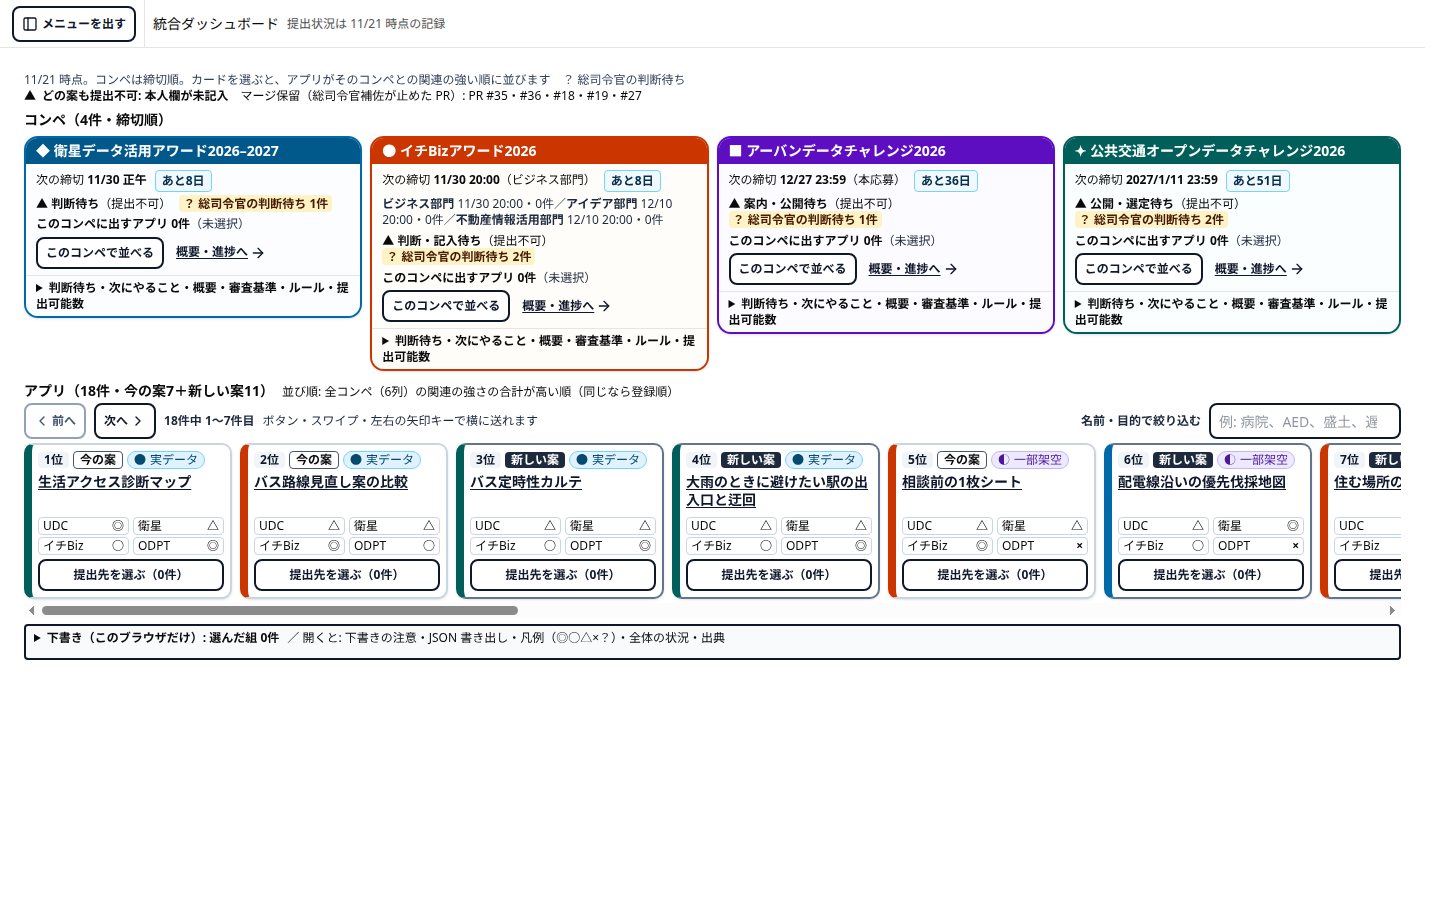
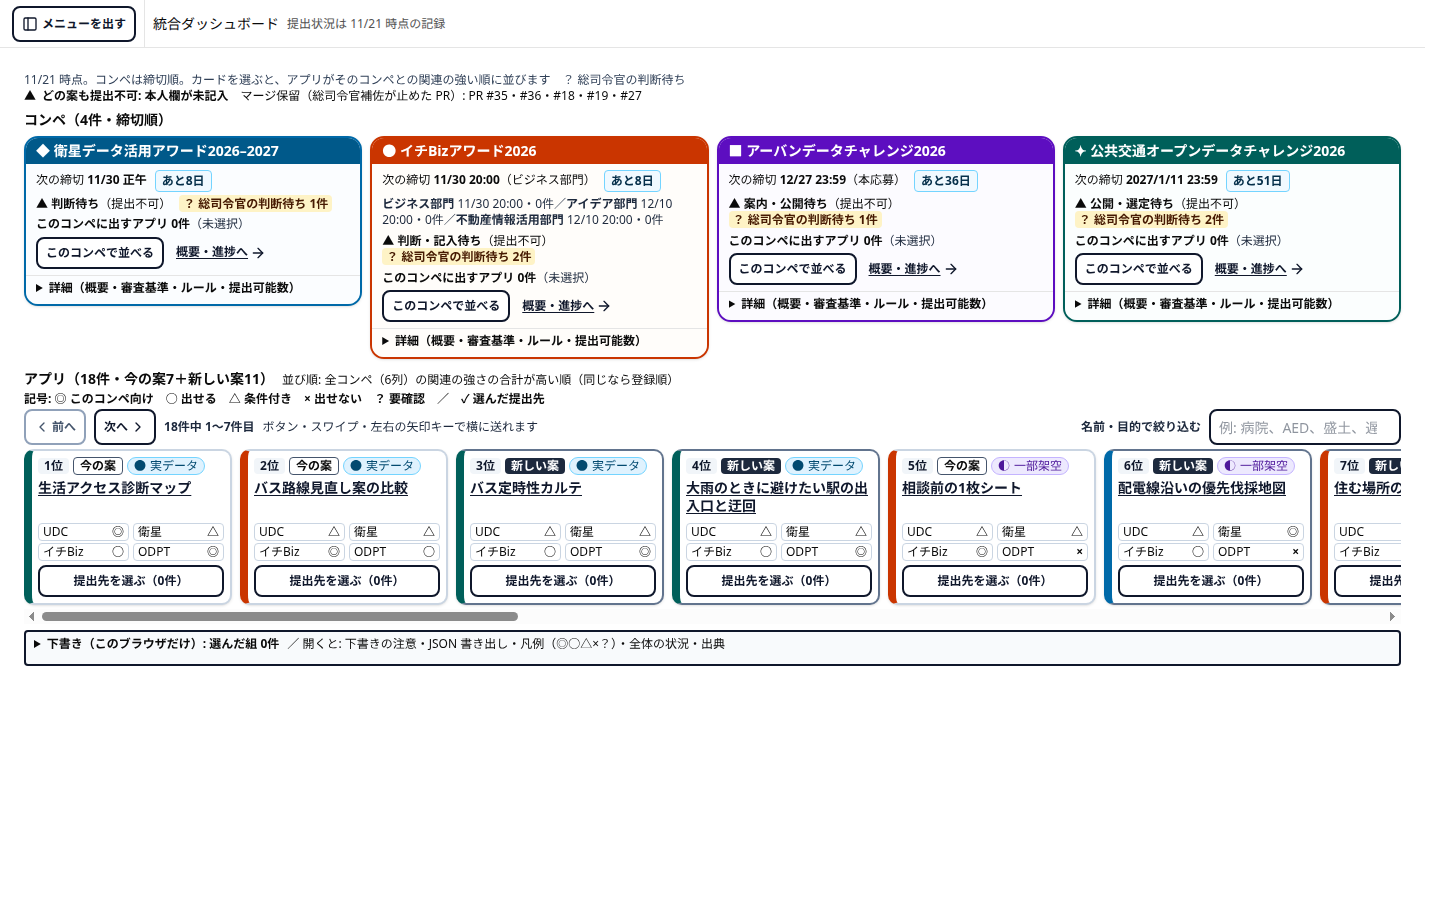
ダッシュボード: デザイン審査 M1〜M3・K1・K3 を反映（選んだ提出先の✓・詳細はカード内スクロール・記号の凡例・390pxで44px・12px）

Changed region(s): [[0.0, 0.3733, 0.9688, 0.7467], [0.5, 0.3111, 0.9688, 0.3733], [0.0, 0.3111, 0.25, 0.3422]]

diff --git a/contests/dashboard/src/pages/TopRows.tsx b/contests/dashboard/src/pages/TopRows.tsx
@@ -50,7 +50,7 @@ export function ContestTopCard({
       onClick={(e) => {
         if (!isInteractive(e.target)) onSelect()
       }}
-      className={`flex min-w-0 cursor-pointer flex-col overflow-hidden rounded-xl border-2 shadow-sm ${color.tint} ${selected ? 'outline outline-4 outline-offset-2 outline-slate-900' : ''}`}
+      className={`relative flex min-w-0 cursor-pointer flex-col overflow-hidden rounded-xl border-2 shadow-sm ${color.tint} ${selected ? 'outline outline-4 outline-offset-2 outline-slate-900' : ''}`}
     >
       <h3 className={`flex items-center justify-between gap-2 px-2.5 py-1 text-sm font-bold leading-tight ${color.band}`}>
         <span className="min-w-0 truncate" title={contest.name}>
@@ -99,14 +99,14 @@ export function ContestTopCard({
             aria-pressed={selected}
             onClick={onSelect}
             data-testid={`pick-${info.id}`}
-            className={`min-h-8 rounded-md border-2 border-slate-900 px-2 text-xs font-bold ${focus} ${selected ? 'bg-slate-900 text-white' : 'bg-white text-slate-900 hover:bg-slate-100'}`}
+            className={`min-h-11 rounded-md border-2 border-slate-900 px-2 text-xs font-bold md:min-h-8 ${focus} ${selected ? 'bg-slate-900 text-white' : 'bg-white text-slate-900 hover:bg-slate-100'}`}
           >
             {selected ? <><span aria-hidden>✓ </span>並べ替え中（解除）</> : 'このコンペで並べる'}
           </button>
           <a
             href={contestUrl(info.id)}
             data-testid={`row-${info.id}`}
-            className={`inline-flex min-h-8 items-center gap-0.5 font-bold text-slate-900 underline underline-offset-2 ${focus}`}
+            className={`inline-flex min-h-11 items-center gap-0.5 font-bold md:min-h-8 text-slate-900 underline underline-offset-2 ${focus}`}
             title={`${contest.name}の概要・進捗・審査基準を見る`}
           >
             概要・進捗へ
@@ -115,8 +115,9 @@ export function ContestTopCard({
         </div>
       </div>
       <details className="border-t bg-white/70 px-2.5 text-xs" data-testid={`facts-${info.id}`}>
-        <summary className="min-h-7 cursor-pointer py-1 font-bold">判断待ち・次にやること・概要・審査基準・ルール・提出可能数</summary>
-        <dl className="space-y-2 pb-2">
+        <summary className="min-h-7 cursor-pointer truncate py-1 font-bold" title="判断待ち・次にやること・概要・審査基準・ルール・提出可能数">詳細（概要・審査基準・ルール・提出可能数）</summary>
+        {/* 開いた中身はカードの中だけでスクロールする（カードの高さは変えず、アプリの行を押し出さない） */}
+        <dl className="absolute inset-x-0 bottom-7 top-7 z-10 space-y-2 overflow-y-auto border-y-2 border-slate-400 bg-white px-2.5 py-2" tabIndex={0} aria-label={`${contest.name}の詳細（この枠の中でスクロールします）`}>
           <div>
             <dt className="font-bold">総司令官の判断待ち（{asks.length}件）</dt>
             <dd>
@@ -188,7 +189,7 @@ function CardCautions({ items }: { items: ActiveCaution[] }) {
           <details>
             <summary className="min-h-7 cursor-pointer py-1 font-bold">全文と出典（確認事項で、判定ではありません）</summary>
             <p className="leading-snug">{c.caution.text}</p>
-            <p className="text-[0.6875rem]">［出典: {c.caution.source}］</p>
+            <p className="text-xs">［出典: {c.caution.source}］</p>
           </details>
         </li>
       ))}
@@ -262,15 +263,16 @@ export function AppFitCard({
         {MINI.map((m) => {
           const cell = bestCell(a.id, m.id)
           const emph = contest === m.id
+          const picked = columnsOf(m.id).some((c) => chosen.includes(c.id))
           return (
             <li
               key={m.id}
               data-fit-mini={m.id}
               data-emph={emph ? 'true' : undefined}
-              className={`flex items-center justify-between rounded px-1 ${emph ? 'border-2 border-slate-900 bg-yellow-50 font-bold' : 'border border-slate-300'}`}
+              className={`flex items-center justify-between rounded px-1 ${picked ? 'border-2 border-slate-900 bg-slate-900 font-bold text-white' : emph ? 'border-2 border-slate-900 bg-yellow-50 font-bold' : 'border border-slate-300'}`}
               title={cell ? `${m.label}: ${cell.mark} ${MARK_WORD[cell.mark]}` : m.label}
             >
-              <span>{emph && <span aria-hidden>▶</span>}{m.label}</span>
+              <span>{picked && <span aria-hidden>✓</span>}{!picked && emph && <span aria-hidden>▶</span>}{m.label}{picked && <span className="sr-only">（選択済み）</span>}</span>
               <span className="font-bold" data-testid={`mini-mark-${a.id}-${m.id}`}>
                 {cell?.mark ?? '－'}
                 <span className="sr-only"> {cell ? MARK_WORD[cell.mark] : ''}</span>
@@ -313,7 +315,7 @@ function FitPopover({
         <button
           type="button"
           data-testid={`pick-targets-${a.id}`}
-          className="min-h-8 flex-1 rounded-md border-2 border-slate-900 bg-white px-1.5 text-xs font-bold text-slate-900 hover:bg-slate-100 focus-visible:outline-2 focus-visible:outline-offset-2 focus-visible:outline-slate-900"
+          className="min-h-11 flex-1 rounded-md md:min-h-8 border-2 border-slate-900 bg-white px-1.5 text-xs font-bold text-slate-900 hover:bg-slate-100 focus-visible:outline-2 focus-visible:outline-offset-2 focus-visible:outline-slate-900"
           aria-label={`${a.name}の提出先を選ぶ（${chosen.length}件選択中）`}
         >
           提出先を選ぶ<span data-testid={`chosen-count-${a.id}`}>（{chosen.length}件）</span>
@@ -333,7 +335,7 @@ function FitPopover({
             <legend className="px-1 font-bold">
               提出先を選ぶ（{chosen.length}件選択中）
             </legend>
-            <p className="mb-1 text-[0.6875rem] leading-snug text-slate-800">右の記号は関連の判定（情報部）。左のチェックが、あなたの選択です。</p>
+            <p className="mb-1 text-xs leading-snug text-slate-800">右の記号は関連の判定（情報部）。左のチェックが、あなたの選択です。</p>
             <ul className="space-y-0.5" ref={listRef} onKeyDown={onKey} role="group" aria-label={`${a.name}の提出先（上下の矢印キーで移動、スペースで選ぶ）`}>
               {cols.map((col) => {
                 const cell = cellOf(a.id, col.id)!
@@ -348,7 +350,7 @@ function FitPopover({
                     data-emph={emph ? 'true' : undefined}
                     className={`rounded px-1 py-0.5 ${emph ? 'border-2 border-slate-900 bg-yellow-50 font-bold' : 'border border-transparent'}`}
                   >
-                    <label htmlFor={id} className={`flex min-h-8 items-center gap-1.5 ${ok ? 'cursor-pointer' : 'cursor-not-allowed text-slate-700'}`}>
+                    <label htmlFor={id} className={`flex min-h-11 items-center gap-1.5 md:min-h-8 ${ok ? 'cursor-pointer' : 'cursor-not-allowed text-slate-700'}`}>
                       <input
                         id={id}
                         type="checkbox"
@@ -372,7 +374,7 @@ function FitPopover({
                     </label>
                     {!ok && (
                       <details className="ml-5">
-                        <summary className="min-h-8 cursor-pointer py-1 font-normal underline">選べない理由</summary>
+                        <summary className="min-h-11 cursor-pointer py-2.5 font-normal underline md:min-h-8 md:py-1">選べない理由</summary>
                         <p id={`${id}-why`} className="mb-1 font-normal leading-snug text-slate-800" data-testid={`why-${a.id}-${col.id}`}>
                           選べません: {cell.reason}
                         </p>
@@ -392,7 +394,7 @@ function FitPopover({
                     <li key={col.id} className="leading-snug">
                       <span className="font-bold">{columnShort(col)} {cell.mark} {MARK_WORD[cell.mark]}</span>
                       <span className="block text-slate-800">{cell.reason}</span>
-                      <span className="block text-[0.6875rem] text-slate-700">［出典: {cell.source}］</span>
+                      <span className="block text-xs text-slate-700">［出典: {cell.source}］</span>
                     </li>
                   )
                 })}
@@ -410,7 +412,7 @@ function FitPopover({
               </span>
             </p>
           )}
-          <PopoverPrimitive.Close className="mt-1 min-h-8 rounded-md border-2 border-slate-900 bg-white px-2 text-xs font-bold hover:bg-slate-100 focus-visible:outline-2 focus-visible:outline-slate-900">
+          <PopoverPrimitive.Close className="mt-1 min-h-11 rounded-md md:min-h-8 border-2 border-slate-900 bg-white px-2 text-xs font-bold hover:bg-slate-100 focus-visible:outline-2 focus-visible:outline-slate-900">
             閉じる
           </PopoverPrimitive.Close>
         </PopoverPrimitive.Content>

diff --git a/contests/dashboard/src/test/app-fit.test.tsx b/contests/dashboard/src/test/app-fit.test.tsx
@@ -131,6 +131,16 @@ describe('トップ画面の操作', () => {
     expect(document.querySelector('[data-testid="app-section"]')!.innerHTML.indexOf('data-testid="cautions"')).toBeGreaterThan(document.querySelector('[data-testid="app-section"]')!.innerHTML.indexOf('data-testid="app-row"'))
     expect(screen.getByTestId('draft-note').textContent).toContain('このブラウザだけの下書きです。正式な提出先は総司令官が参謀長に指示してください')
   })
+  it('選んだ提出先は、カードの小さな表に ✓ で出る。記号の凡例は常に出ている', () => {
+    render(<Portal />)
+    expect(screen.getByTestId('mark-legend').textContent).toContain('◎ このコンペ向け')
+    const mini = () => document.querySelector('[data-app-card="sat-b"] [data-fit-mini="satellite-2026"]')!.textContent
+    expect(mini()).not.toContain('✓')
+    openPick('sat-b')
+    fireEvent.click(screen.getByTestId('t-sat-b-satellite-2026'))
+    expect(mini()).toContain('✓')
+    expect(mini()).toContain('選択済み')
+  })
   it('localStorage が使えなくても画面は動く', () => {
     const orig = Storage.prototype.setItem
     Storage.prototype.setItem = () => { throw new Error('denied') }

diff --git a/contests/dashboard/src/pages/Portal.tsx b/contests/dashboard/src/pages/Portal.tsx
@@ -90,6 +90,9 @@ export default function Portal() {
                 : '並び順: 全コンペ（6列）の関連の強さの合計が高い順（同じなら登録順）'}
             </span>
           </h2>
+          <p className="text-xs font-bold" data-testid="mark-legend">
+            記号: ◎ このコンペ向け　○ 出せる　△ 条件付き　× 出せない　？ 要確認　／　✓ 選んだ提出先
+          </p>
           <ScrollRow
             label="アプリのカード"
             resetKey={`${contest ?? 'none'}|${q}`}
